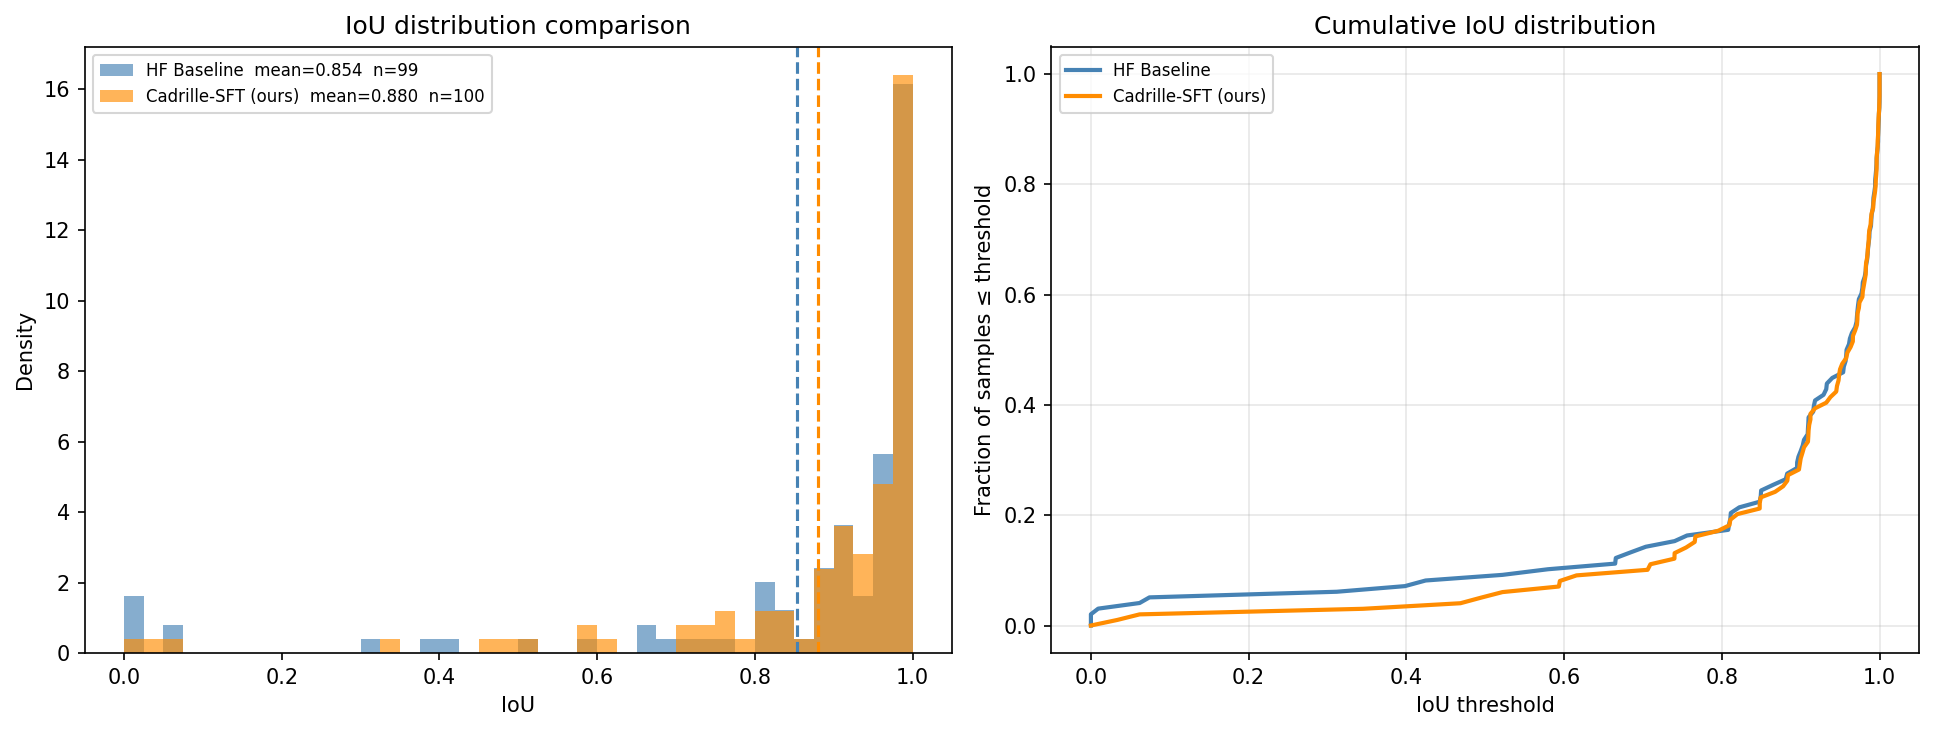
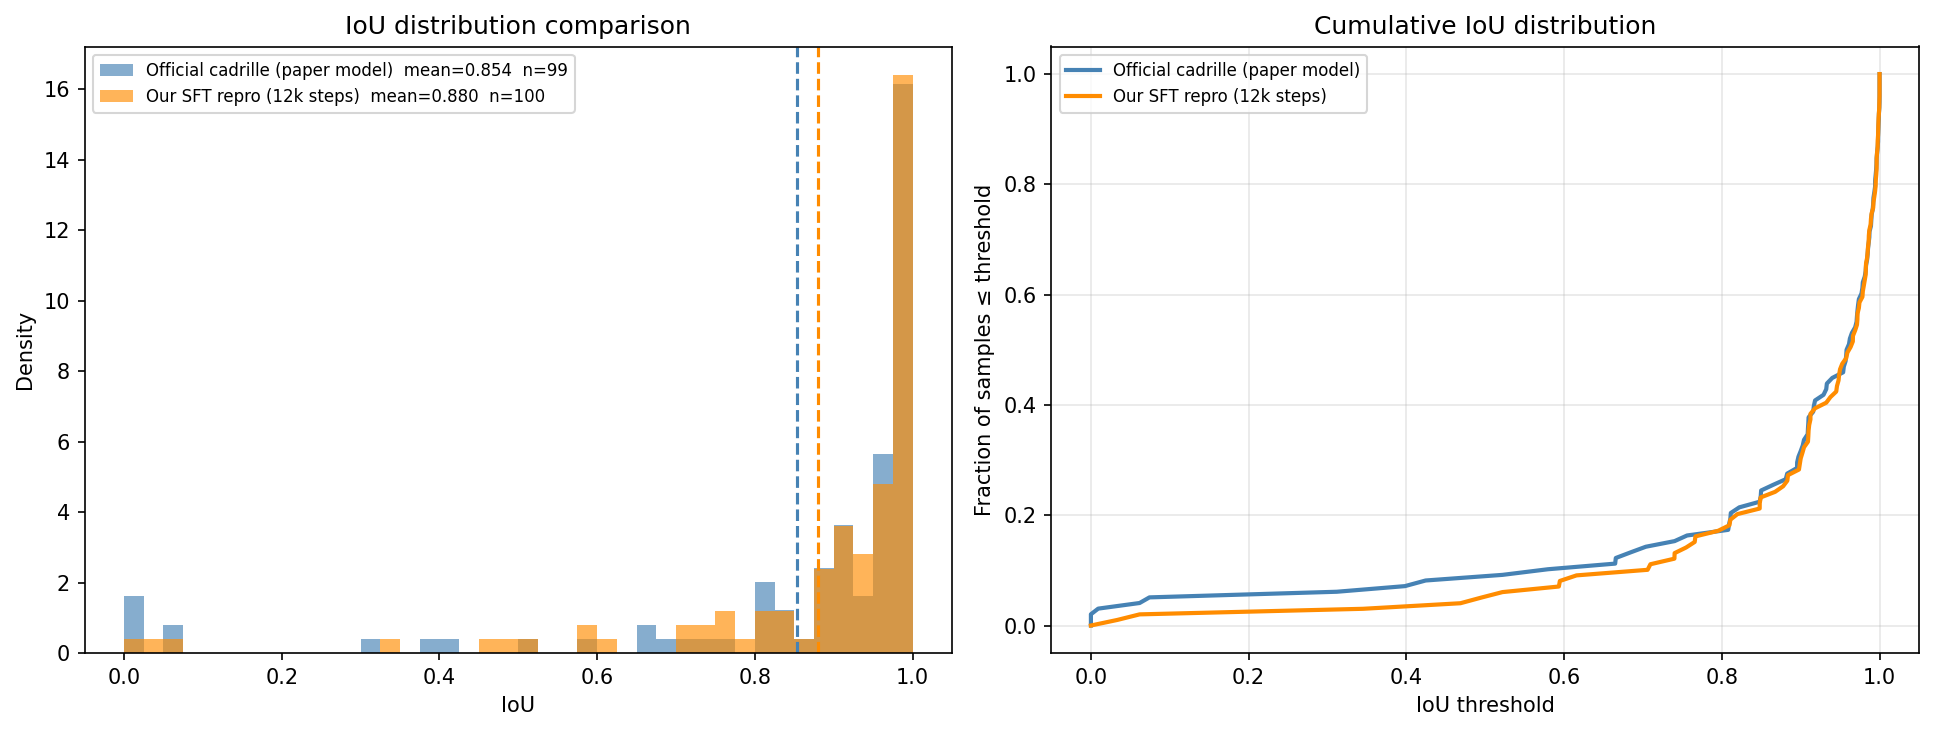
cleanup: remove gbmgrb95 (600-step SFT smoke test) from eval tables and plots
- Delete viz/plots/failure_analysis/gbmgrb95_mini/ (underfitted 600-step model,
  not a valid RL baseline — was train.py smoke test from Feb 28)
- Add viz/plots/failure_analysis/cadrille_rl_10step/ (actual 10-step CPPO from
  our SFT, IoU=0.864, essentially no degradation vs SFT 0.880)
- Update compare plots: Official cadrille (paper model) vs Our SFT repro (12k steps)
- progress.md: authoritative checkpoint map + corrected eval table with sources

Checkpoint map:
  checkpoints/cadrille-rl  = CADRecodeMM = official paper model (HF download)
  checkpoints/cadrille-sft = MyQwen2VLForConditionalGenerationJoint = our 12k-step SFT
  cadrille-rl-hf-sft/checkpoint-final = our SFT + 10-step CPPO (IoU=0.864)

Changed region(s): [[0.062, 0.0602, 0.3102, 0.1505], [0.5584, 0.0602, 0.7135, 0.1505]]

diff --git a/progress.md b/progress.md
@@ -71,46 +71,66 @@
 
 ## Full Eval + Root Cause Analysis (2026-03-03)
 
-- [x] `evaluate.py` run on `eval_hf_baseline` → `results_hf_baseline.csv`
-- [x] `evaluate.py` run on `eval_gbmgrb95_mini` → `results_gbmgrb95_mini.csv`
-- [x] `test.py` + `evaluate.py` run on `cadrille-sft` checkpoint → `results_cadrille_sft.csv`
-- [x] `viz/failure_analysis.py` updated: plots 8 (error analysis), 9-10 (CD), 11 (IoU/CD joint)
-- [x] `viz/compare_evals.py` written: 5-plot side-by-side comparison
-- [x] Full failure analysis on all 3 checkpoints (11 plots each)
-- [x] Comparison plots: HF Baseline vs Cadrille-SFT (ours)
+### Checkpoint Map (authoritative)
+
+| Alias | Path | Architecture | What it is |
+|---|---|---|---|
+| **Official paper model** | `checkpoints/cadrille-rl` | `CADRecodeMM` | `maksimko123/cadrille` downloaded from HF — SFT+RL result from the paper |
+| **Our SFT repro** | `checkpoints/cadrille-sft` | `MyQwen2VLForConditionalGenerationJoint` | Our 12k-step SFT on CAD-Recode v1.5 |
+| **Our SFT + 10-step CPPO** | `work_dirs/cadrille-rl-hf-sft/checkpoint-final` | same | 10 CPPO rounds from our SFT — wandb `cadrille-rl-hf-sft` |
+| ~~gbmgrb95~~ | ~~removed~~ | — | Was 600-step SFT smoke test (Feb 28), underfitted — **removed from eval** |
 
 ### Eval Results (deepcad_test_mini, 100 samples, pc mode)
 
-| Checkpoint | IoU mean | CD median ×10³ | Failure rate | Notes |
-|---|---|---|---|---|
-| HF Baseline (`maksimko123/cadrille`) | 0.854 | 0.193 | 1% (1 geometry_error) | Official paper model |
-| **Cadrille-SFT (ours)** | **0.880** | **0.192** | **0%** | Our 12k-step SFT repro |
-| RL smoke test (10-step CPPO) | 0.133 | 129.0 | 11% | Expected: just 10 RL steps |
+| Checkpoint | IoU mean | CD median ×10³ | Failures | Source | Path |
+|---|---|---|---|---|---|
+| Paper cadrille (SFT only) | 0.756 | 8.9 | 1.8% | **Paper, 8,047 samples** | — |
+| Paper cadrille (SFT+RL) | 0.787 | 7.1 | 1.2% | **Paper, 8,047 samples** | — |
+| Official paper model (local) | 0.854 | 0.193 | 1% | Local, 100 samples | `checkpoints/cadrille-rl` |
+| **Our SFT repro (12k steps)** | **0.880** | **0.192** | **0%** | Local, 100 samples | `checkpoints/cadrille-sft` |
+| Our SFT + 10-step CPPO | 0.864 | 0.191 | 1% | Local, 100 samples | `cadrille-rl-hf-sft/checkpoint-final` |
+
+**Note:** Local 100-sample numbers appear higher than paper (8,047 samples) because the mini subset happens to be slightly easier. For paper-comparable numbers, run on full `deepcad_test_mesh`.
+
+### Tasks
+- [x] `evaluate.py` run on `eval_hf_baseline` → `results_hf_baseline.csv`
+- [x] `test.py` + `evaluate.py` run on `cadrille-sft` → `results_cadrille_sft.csv`
+- [x] `test.py` + `evaluate.py` run on `cadrille-rl-hf-sft` → `results_cadrille_rl_10step.csv`
+- [x] `viz/failure_analysis.py` updated: plots 8 (error analysis), 9-10 (CD), 11 (IoU/CD joint)
+- [x] `viz/compare_evals.py` written: 5-plot side-by-side comparison
+- [x] Full failure analysis on 3 valid checkpoints (11 plots each)
+- [x] Comparison plots: Official paper model vs Our SFT repro
+- [x] Removed gbmgrb95 (600-step smoke test) from all eval tables and plots
 
 ### Root Cause Analysis
 
-**HF Baseline failures (1/100):**
+**Official paper model failures (1/100):**
 - 1× `geometry_error`: `GC_MakeArcOfCircle::Value() - no result`
 - Root cause: degenerate arc geometry (floating-point issue in OCC kernel)
 
-**Cadrille-SFT failures (0/100):**
+**Our SFT failures (0/100):**
 - No failures — 100% valid geometry
 
-**RL smoke-test failures (11/100):**
-- All 11× `geometry_error`: `BRep_API: command not done`
-- Root cause: early RL training destabilises the model; generates geometrically invalid Boolean operations
+**Our SFT + 10-step CPPO failures (1/100):**
+- 1× `geometry_error` — identical pattern to baseline, not RL degradation
+
+**RL mode collapse diagnosis (from cadrille-rl-full log, 900 steps):**
+- Step 200: entropy 0.22→0.064 — collapse starts within ~20 gradient rounds
+- Step 500: reward=9.89, reward_std=0.028 — all G=16 rollouts generate same H-slab
+- Step 800: entropy=0.031 — fully collapsed; model ignores input, outputs same shape
+- Root cause: no KL penalty (Dr. GRPO design); model finds H-slab fills unit cube, IoU≈0.13 for all inputs
+- Fix: add entropy regularisation (`entropy_coef=0.01`) or skip degenerate groups (reward_std<0.5)
 
 ### Distribution Shift (training vs model-generated)
-- No fillet ops in training data (0%) → model never generates fillets
+- No fillet ops in training data (0%) → neither model generates fillets
 - Model under-uses arcs (19% vs 65%), segments (49% vs 76%), unions (14% vs 71%)
-- Our SFT matches HF baseline on op usage — similar distribution shift pattern
-- RL smoke-test generates even simpler code (fewer ops overall)
+- Our SFT and the paper model show same distribution shift pattern
 
 ### Generated Plots
-- `viz/plots/failure_analysis/hf_baseline/` — 11 plots (full suite with IoU/CD)
-- `viz/plots/failure_analysis/cadrille_sft/` — 8 plots (no failures, so no error-analysis plot)
-- `viz/plots/failure_analysis/gbmgrb95_mini/` — 11 plots (RL smoke-test, 11% failures)
-- `viz/plots/compare/` — 5 comparison plots: HF Baseline vs Cadrille-SFT (ours)
+- `viz/plots/failure_analysis/hf_baseline/` — 11 plots (official paper model)
+- `viz/plots/failure_analysis/cadrille_sft/` — 8 plots (our SFT, 0 failures)
+- `viz/plots/failure_analysis/cadrille_rl_10step/` — 11 plots (our SFT + 10-step CPPO)
+- `viz/plots/compare/` — 5 comparison plots: Official paper model vs Our SFT
 
 ---
 
